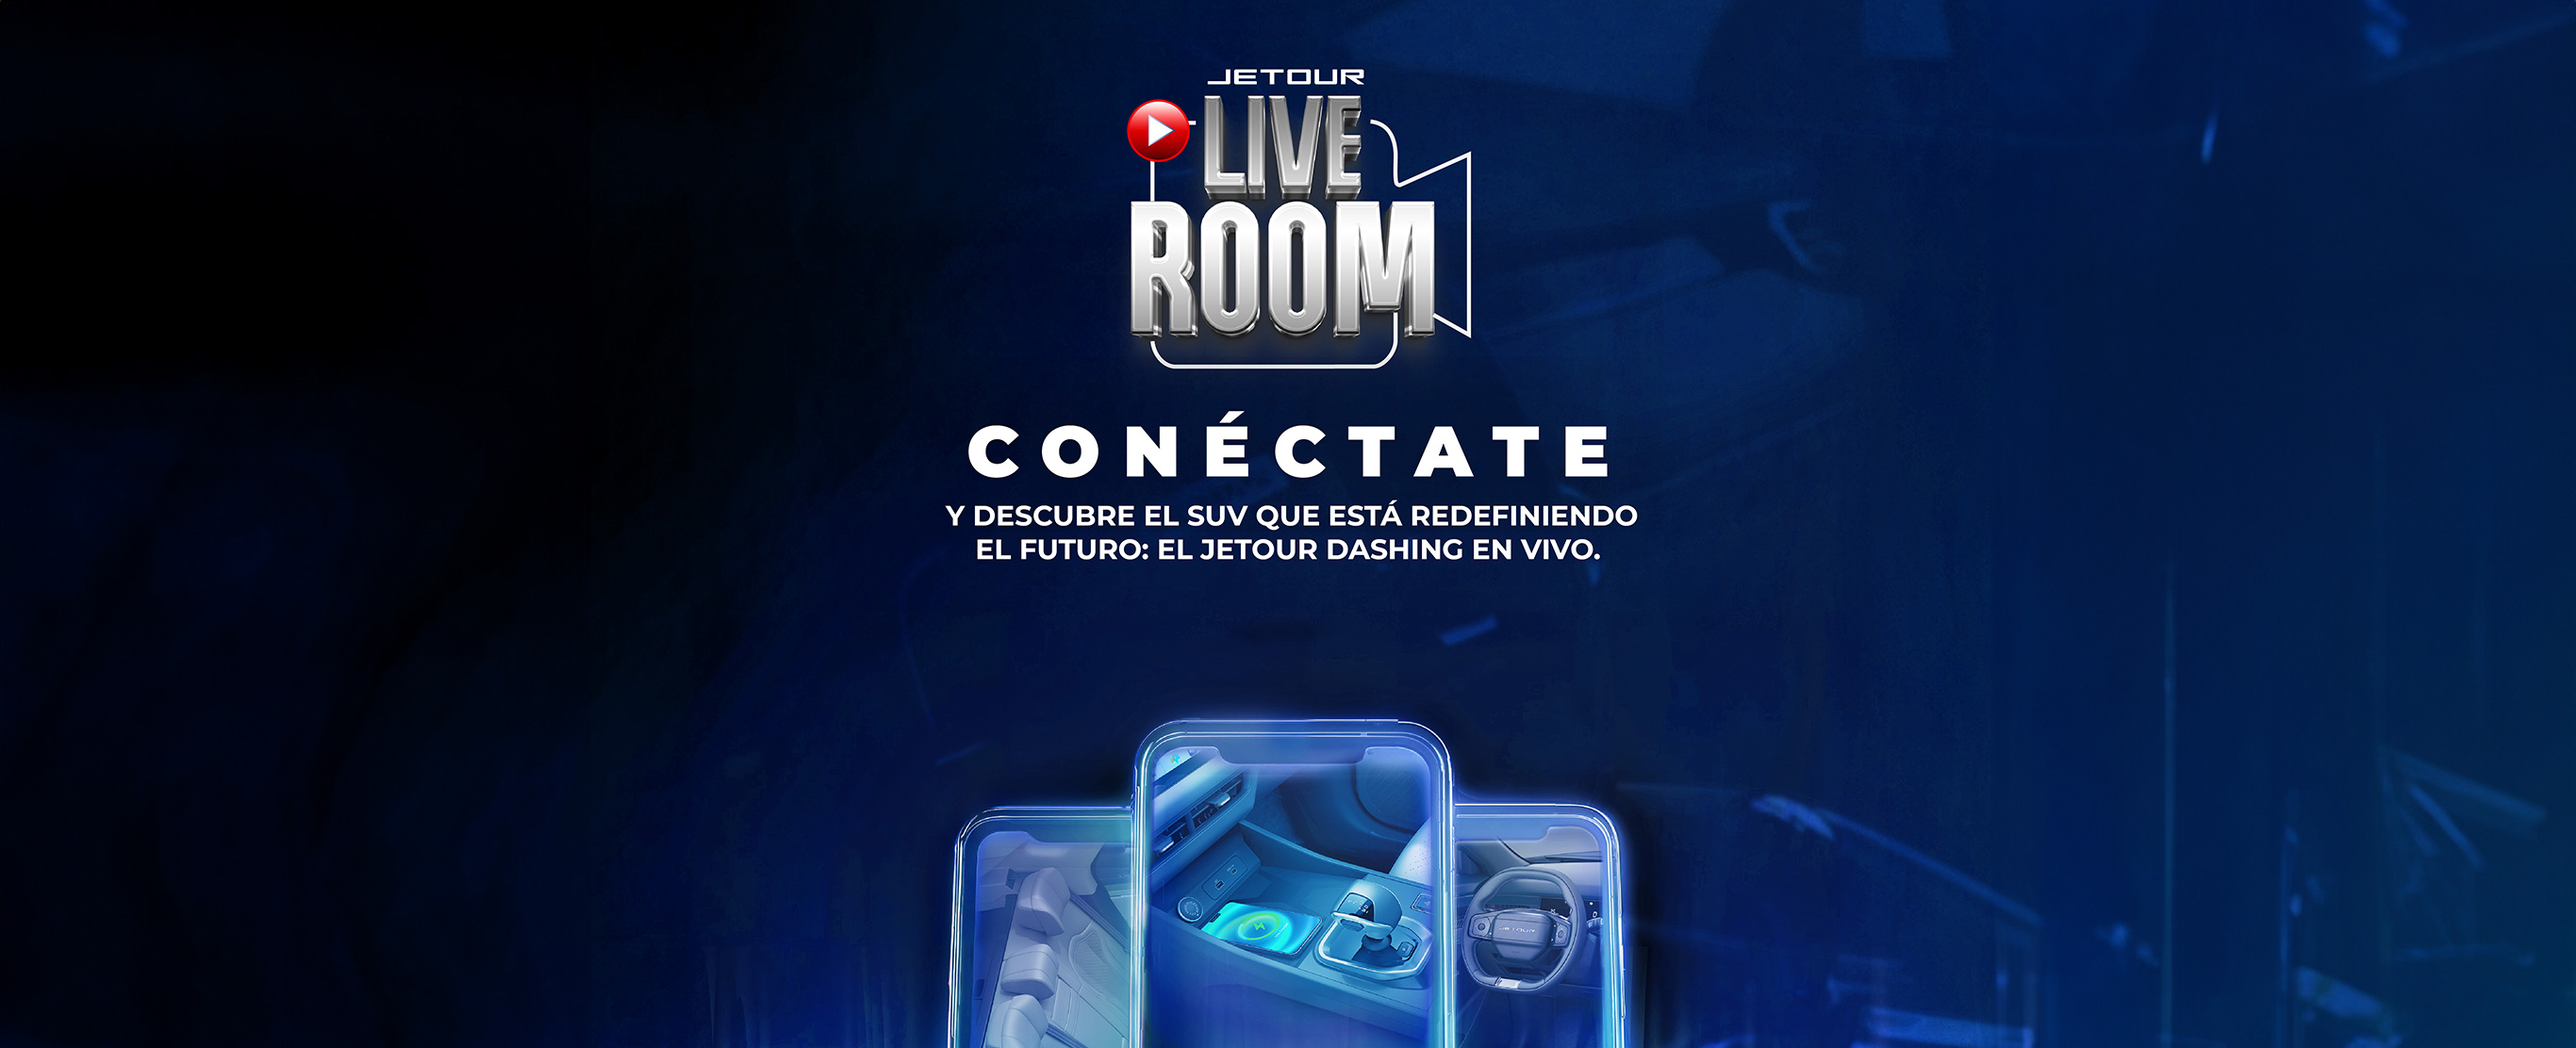
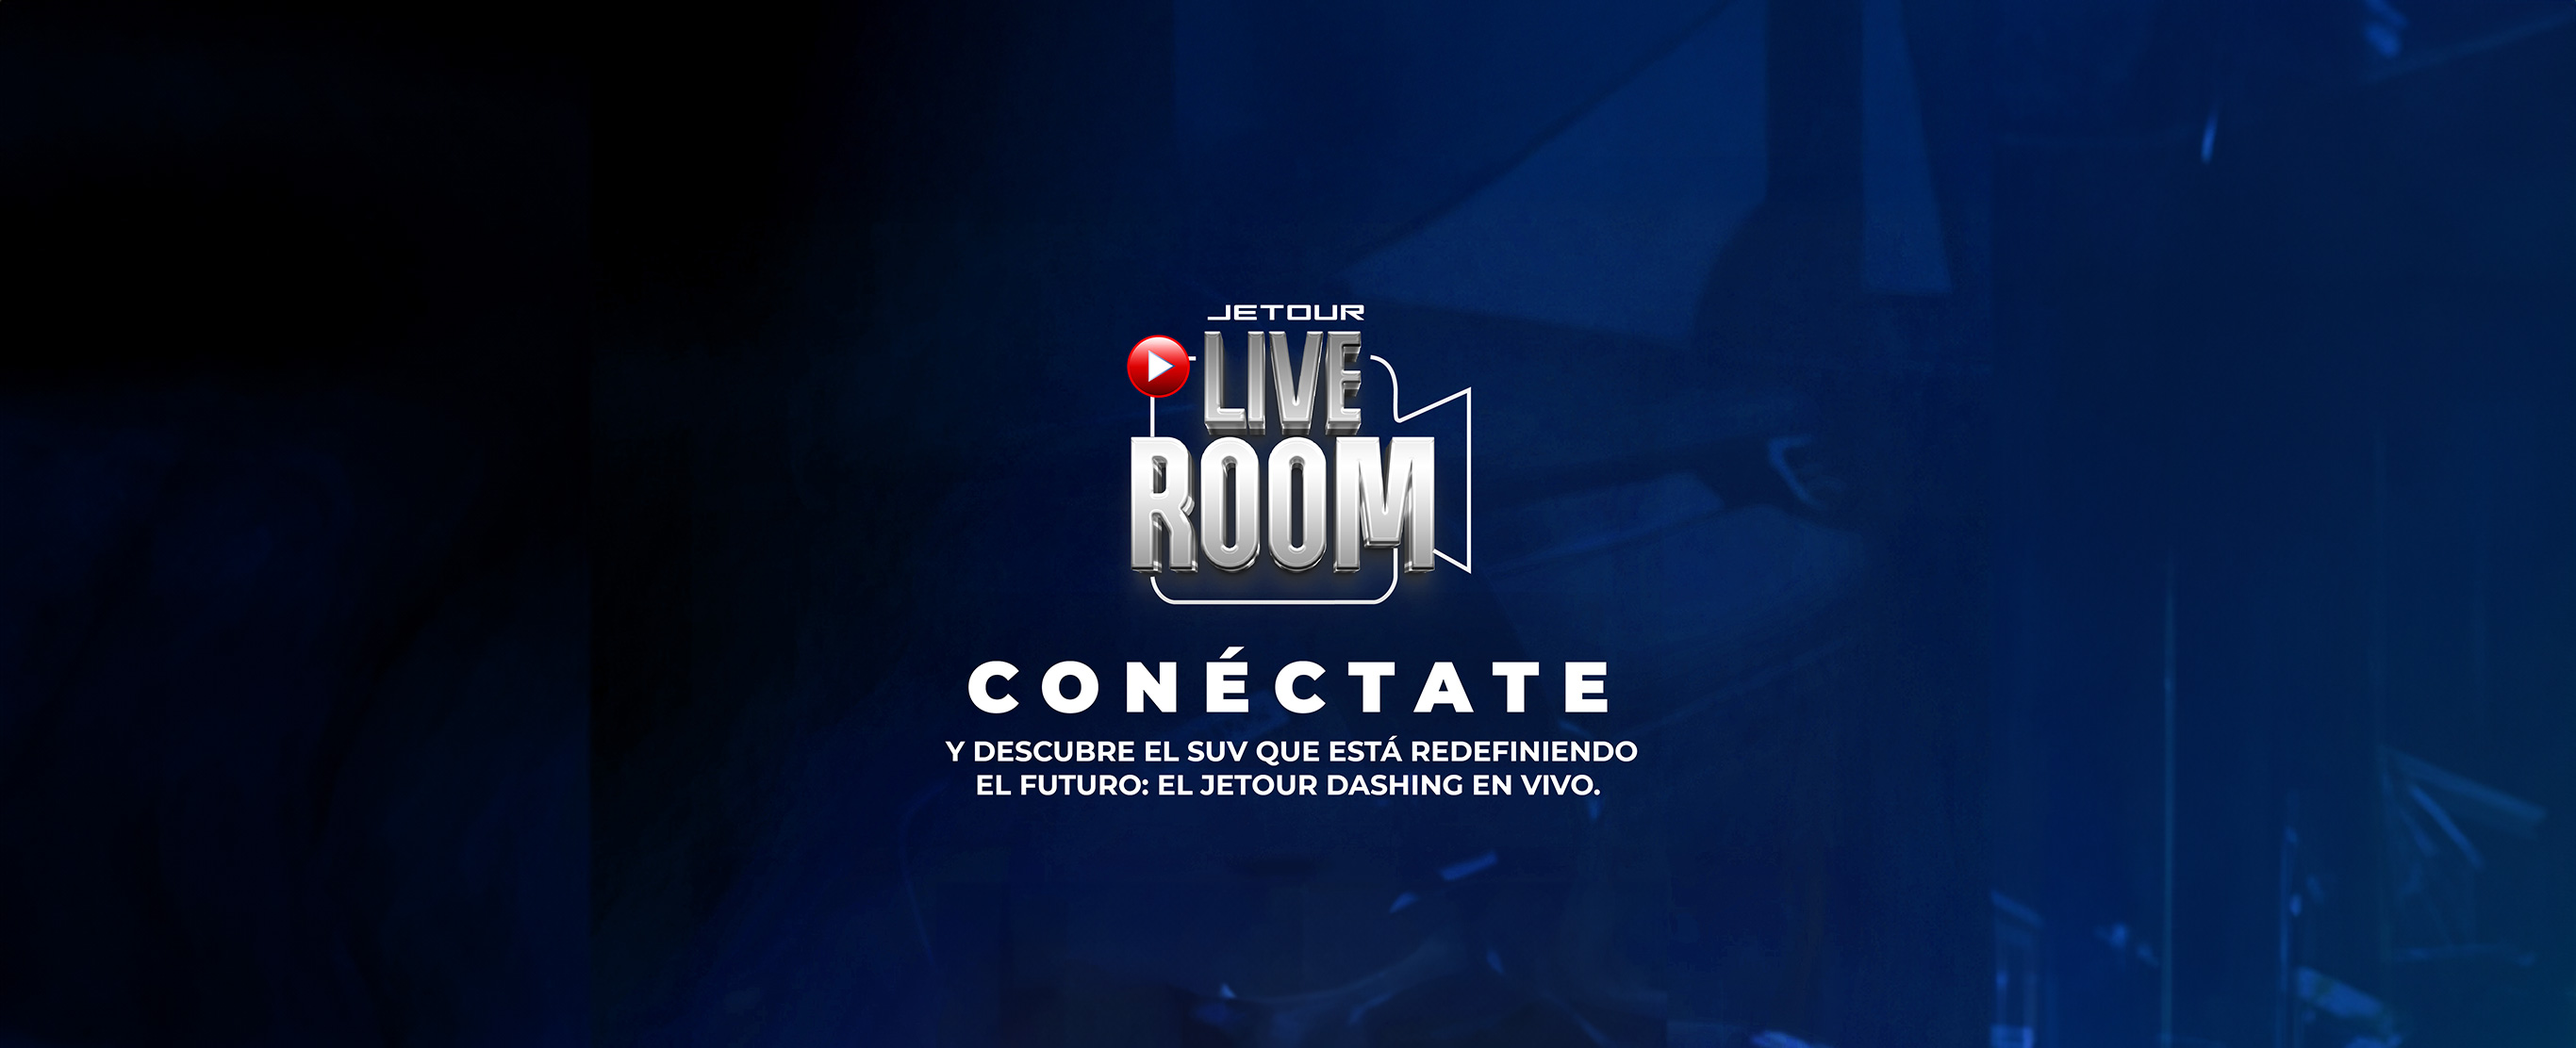
Update Boton y enlace

diff --git a/app/live-room/page.jsx b/app/live-room/page.jsx
@@ -13,7 +13,7 @@ import { getPageData, getVehicleModelPageData } from "@/lib/page-data";
 export default function LiveroomPage() {
   const pageData = getPageData("liveroom");
 
-  const model = "t2-phev";
+  const model = "dashing";
   const modelPageData = getVehicleModelPageData(model); // Datos específicos del modelo
 
   return (
@@ -34,10 +34,8 @@ export default function LiveroomPage() {
         <div className="relative z-10 flex items-center justify-center h-full">
           <div className="text-center">
             <h1 className="text-3xl md:text-5xl lg:text-7xl font-bold text-white mb-4">
-              Live Room
             </h1>
             <p className="md:text-xl">
-              Descubre el Suv que esta redescubriendo el futuro
             </p>
           </div>
         </div>
@@ -56,6 +54,32 @@ export default function LiveroomPage() {
         logoImage={modelPageData.hero.logoImage}
         logoAlt={modelPageData.hero.logoAlt}
       />
+
+     {/* Hero Section */}
+      <section className="relative h-auto lg:h-auto bg-gradient-to-r from-black to-gray-900 overflow-hidden">
+        {/* Background Image Placeholder - You can replace this with an actual car image */}
+        
+
+        {/* Hero Content */}
+        <div className="relative z-10 flex items-center justify-center h-full">
+          <div className="text-center">
+            <div className="text-center">
+                      <motion.a
+                                    href="/vehiculo/dashing"
+                                    target="_blank"
+                                    rel="noopener noreferrer"
+                                    className="bg-transparent border-2 border-blue-500 text-white px-8 py-2 rounded-full font-semibold text-lg flex items-center justify-center gap-3 hover:bg-blue-500 hover:text-white transition-all duration-300 w-fit"
+                                    whileHover={{ scale: 1.05 }}
+                                    whileTap={{ scale: 0.95 }}
+                                  >
+                                    <MessageCircle className="w-6 h-6" />
+                                    <span className="text-lg">Conoce ma´s</span>
+                                    <ArrowRight className="w-5 h-5" />
+                                  </motion.a>
+                    </div>
+          </div>
+        </div>
+      </section>
 
       {/* Global Stats Section */}
       {pageData.globalStats && <GlobalStats {...pageData.globalStats} />}

diff --git a/components/VehicleShowcaseNew.jsx b/components/VehicleShowcaseNew.jsx
@@ -108,7 +108,7 @@ export default function VehicleShowcaseNew() {
     },
     {
       id: 7,
-      name: "T2 Phev",
+      name: "T2 PHEV",
       type: "Hybrid SUV",
       logo: "/models/t2-phev/t2-phev-logo.png",
       mainImage:
